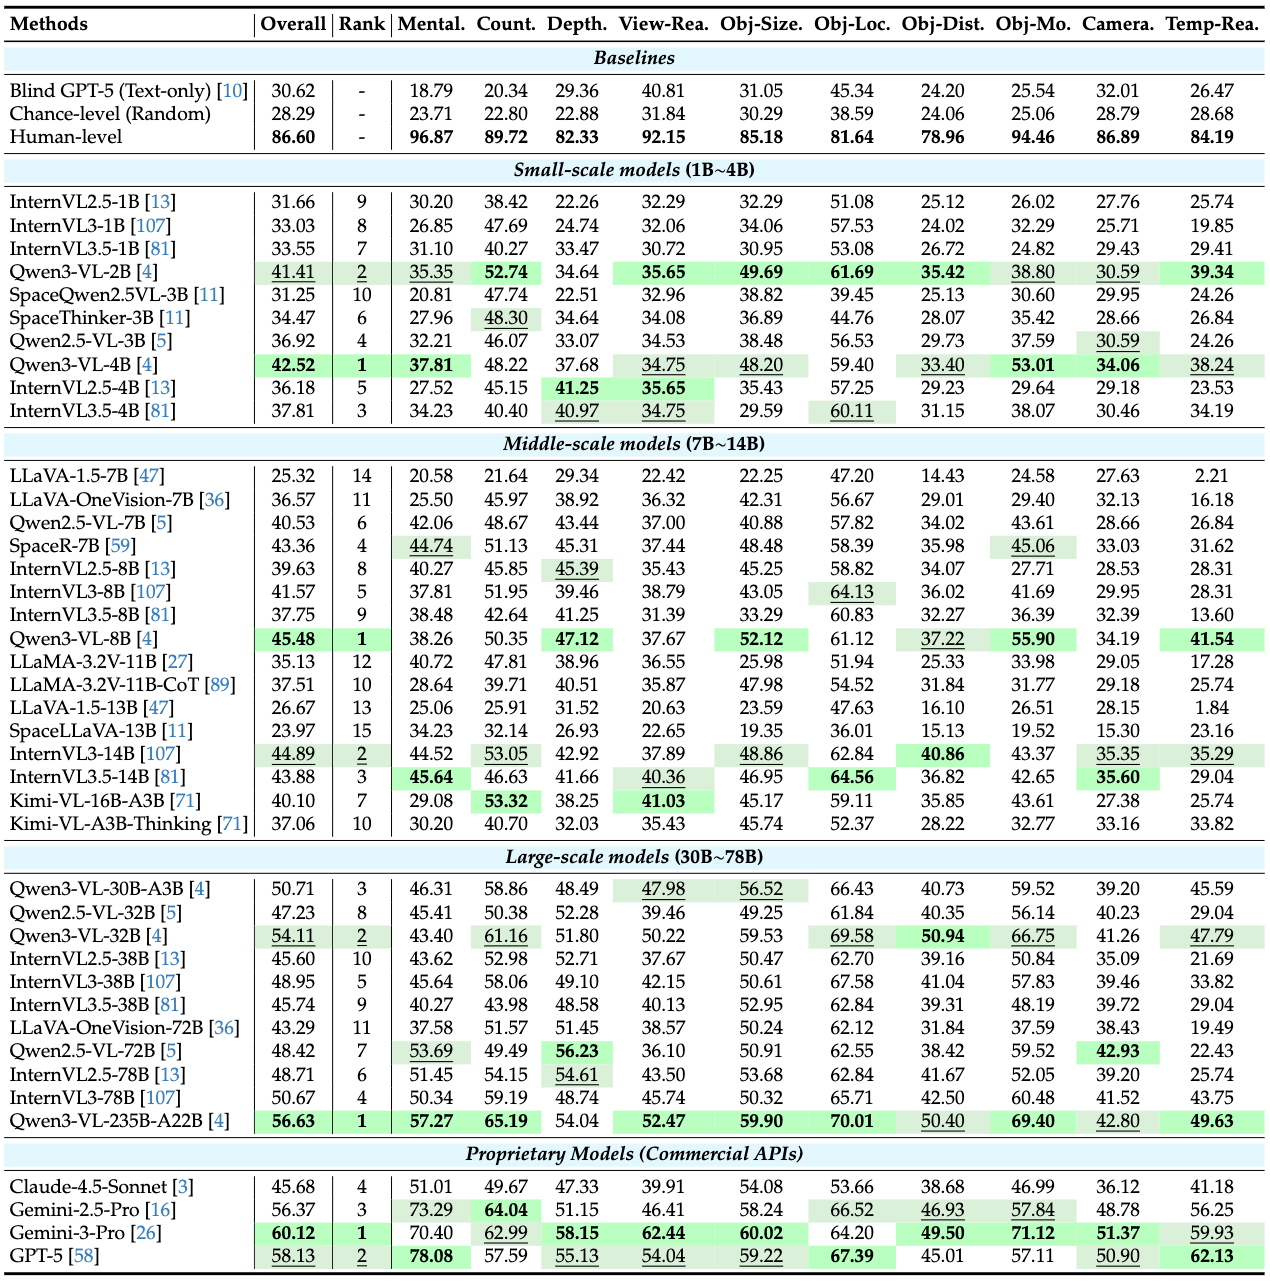
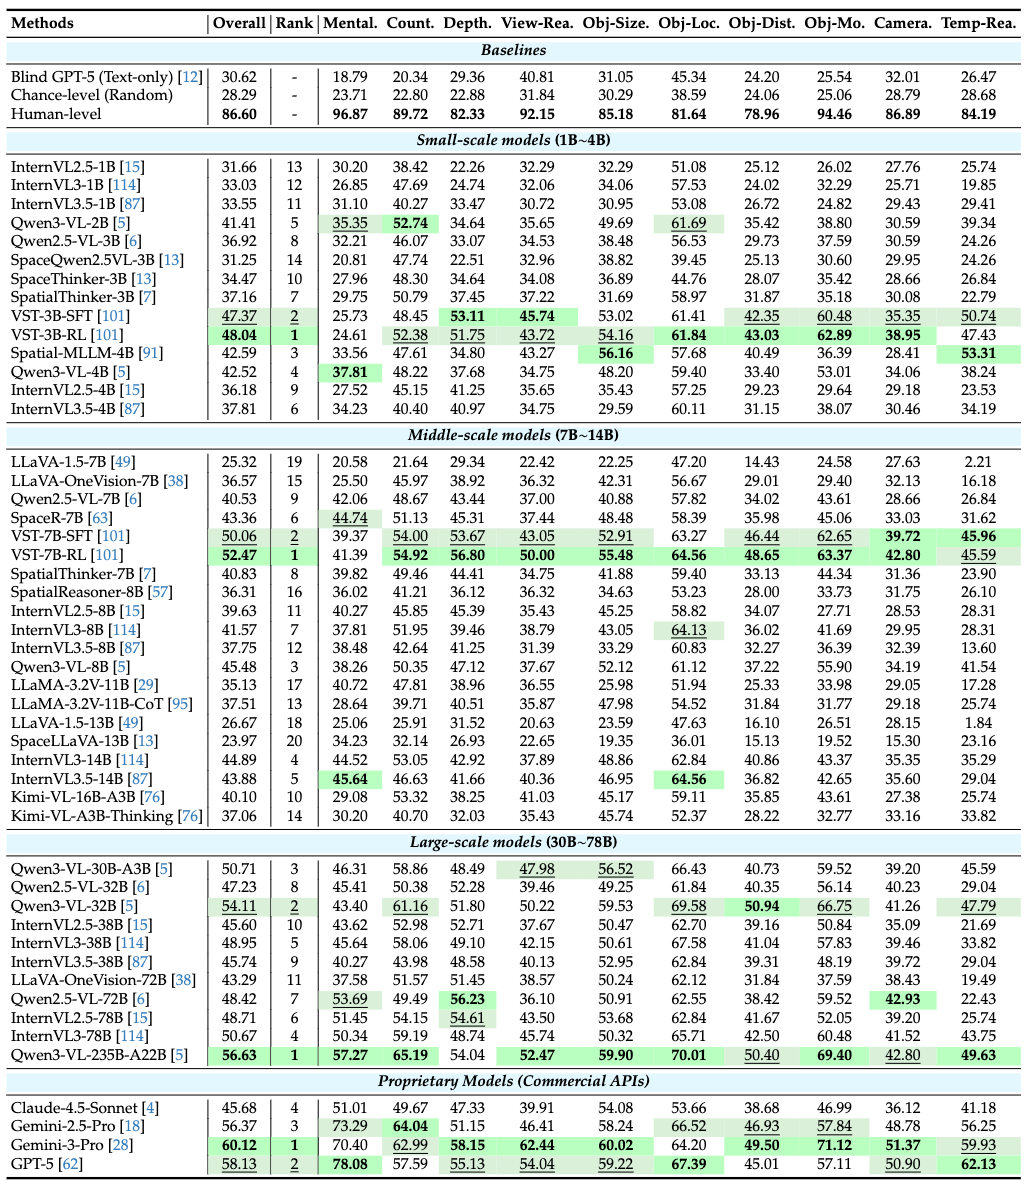
update

diff --git a/index.html b/index.html
@@ -70,7 +70,7 @@
                 <td style="padding:10px;width:100%;vertical-align:middle">
                   <heading>News</heading>
                   <ul>
-                    <li> [2026.02] Two papers (<strong><a href="https://haoningwu3639.github.io/SpatialScore/">SpatialScore</a></strong> and <strong><a href="https://haolinyang-hlyang.github.io/SoccerMaster/">SoccerMaster</a></strong>) have been accepted by <strong><a href="https://cvpr.thecvf.com/Conferences/2026/">CVPR 2026</a></strong>. </li>
+                    <li> [2026.02] Two papers (<strong><a href="https://haoningwu3639.github.io/SpatialScore/">SpatialScore</a></strong> and <strong><a href="https://haolinyang-hlyang.github.io/SoccerMaster/">SoccerMaster</a></strong>) have been accepted by <strong><a href="https://cvpr.thecvf.com/Conferences/2026/">CVPR 2026</a></strong>, and selected as <strong>Highlight</strong> and <strong>Oral</strong>, respectively. </li>
                     <li> [2025.11] One paper (<strong><a href="https://mengmouxu.github.io/SceneGen/">SceneGen</a></strong>) has been accepted by <strong><a href="https://3dvconf.github.io/2026/">3DV 2026</a></strong>. </li>
                     <li> [2025.08] Invited <a href="https://www.bilibili.com/video/BV19EeyzmENK/?vd_source=6cce745af23238982ade9525fe577332/">talk</a> about our paper (<strong><a href="https://haoningwu3639.github.io/MRGen/">MRGen</a></strong>) at <strong><a href="https://nice-nlp.github.io/">NICE</a></strong>. Welcome to discuss! </li>
                     <li> [2025.08] I will attend <strong><a href="https://iccv.thecvf.com/Conferences/2025">ICCV 2025</a></strong> in person. See you in Hawaii! </li>
@@ -162,7 +162,7 @@
                   <br>
                   <strong>Haoning Wu*</strong>, <a href="https://github.com/1106280506Hx/">Xiao Huang*</a>, <a href="https://github.com/YHChen0511/">Yaohui Chen</a>, <a href="https://annzhanglion.github.io/">Ya Zhang</a>, <a href="https://cmic.sjtu.edu.cn/wangyanfeng/">Yanfeng Wang<sup>†</sup></a>, <a href="https://weidixie.github.io/">Weidi Xie<sup>†</sup></a>
                   <br>
-                  <em>CVPR</em>, 2026. &nbsp; <font color="red"> <strong>(NEW)</strong></font>
+                  <em>CVPR</em>, 2026. &nbsp; <font color="red"> <strong>(Highlight Presentation)</strong></font> &nbsp; <font color="red"> <strong>(NEW)</strong></font>
                   <br>
                   <a href="https://haoningwu3639.github.io/SpatialScore/">project page</a>
                   /
@@ -190,7 +190,7 @@
                   <br>
                   <a href="https://haolinyang-hlyang.github.io/">Haolin Yang</a>, <a href="https://jyrao.github.io">Jiayuan Rao</a>, <strong>Haoning Wu</strong>, <a href="https://weidixie.github.io/">Weidi Xie<sup>†</sup></a>
                   <br>
-                  <em>CVPR</em>, 2026. &nbsp; <font color="red"> <strong>(NEW)</strong></font>
+                  <em>CVPR</em>, 2026. &nbsp; <font color="red"> <strong>(Oral Presentation)</strong></font> &nbsp; <font color="red"> <strong>(NEW)</strong></font>
                   <br>
                   <a href="https://haolinyang-hlyang.github.io/SoccerMaster/">project page</a>
                   /
@@ -544,7 +544,7 @@
             <tbody>
               <tr>
                 <td style="padding:0px">
-                  <p style="text-align:left;font-size:small;"> Updated in February. 2026
+                  <p style="text-align:left;font-size:small;"> Updated in April. 2026
                   </p>
                   <p style="text-align:right;font-size:small;">
                     Thanks <a href="https://jonbarron.info/"> Jon Barron</a> for this amazing website template</a>.

diff --git a/SpatialScore/index.html b/SpatialScore/index.html
@@ -171,7 +171,7 @@
           <center> <span style="font-size:20px"><a href="https://cmic.sjtu.edu.cn/wangyanfeng/">Yanfeng Wang</a><sup>1</sup></span> </center>
         </td>
         <td align="center" width="130px">
-          <center> <span style="font-size:20px"><a href="https://weidixie.github.io/">Weidi Xie</a><sup>1,2</sup></span> </center>
+          <center> <span style="font-size:20px"><a href="https://weidixie.github.io/">Weidi Xie</a><sup>1</sup></span> </center>
         </td>
       </tr>
     </tbody>
@@ -206,7 +206,7 @@
     <tbody>
       <tr>
         <td align="center" width="800px">
-          <center> <strong><span style="font-size:32px">CVPR 2026</span></strong> </center>
+          <center> <strong><span style="font-size:32px"> <font color="red">CVPR 2026 Highlight</font></span></strong> </center>
         </td>
       </tr>
     </tbody>
@@ -262,7 +262,7 @@
           Specifically, we make the following contributions: 
           (i) we introduce <strong>SpatialScore</strong>, to our knowledge, the most comprehensive and diverse benchmark for multimodal spatial intelligence to date. 
           It covers multiple visual data types, input modalities, and question-answering formats, and contains approximately 5K manually verified samples spanning 30 distinct tasks; 
-          (ii) using SpatialScore, we extensively evaluate 40 representative MLLMs, revealing persistent challenges and a substantial gap between current models and human-level spatial intelligence; 
+          (ii) using SpatialScore, we extensively evaluate 49 representative MLLMs, revealing persistent challenges and a substantial gap between current models and human-level spatial intelligence; 
           (iii) to advance model capabilities, we construct <strong>SpatialCorpus</strong>, a large-scale training resource with 331K multimodal QA samples that supports fine-tuning on spatial reasoning tasks and significantly improves the performance of existing models (<i>e.g.</i>, Qwen3-VL); 
           (iv) to complement this data-driven route with a training-free paradigm, we develop <strong>SpatialAgent</strong>, a multi-agent system equipped with 12 specialized spatial perception tools that supports both <i>Plan-Execute</i> and <i>ReAct</i> reasoning, enabling substantial gains in spatial reasoning without additional model training. 
           Extensive experiments and in-depth analyses demonstrate the effectiveness of our benchmark, corpus, and agent framework. 
@@ -287,6 +287,15 @@
   </p>
 
   <br>
+
+  <center> <img class="center" src="./resources/data_comparison.png" width="800px"> </center>
+  <p style="text-align:justify; text-justify:inter-ideograph;">
+    <left> 
+      <strong style="font-weight: 900; font-size: 18px"> Comparison with Existing Spatial Intelligence Benchmarks. </strong> 
+       Here, Real and AIGC denote real-world samples and data generated by visual generative models (<i>e.g.</i>, Nvidia Cosmos), respectively. 
+       The considered input modalities include single-image, multi-image sequence, and video.
+    </left>
+
 
   <center> <img class="center" src="./resources/SpatialScore_statistics.png" width="800px"> </center>
   <p style="text-align:justify; text-justify:inter-ideograph;">
